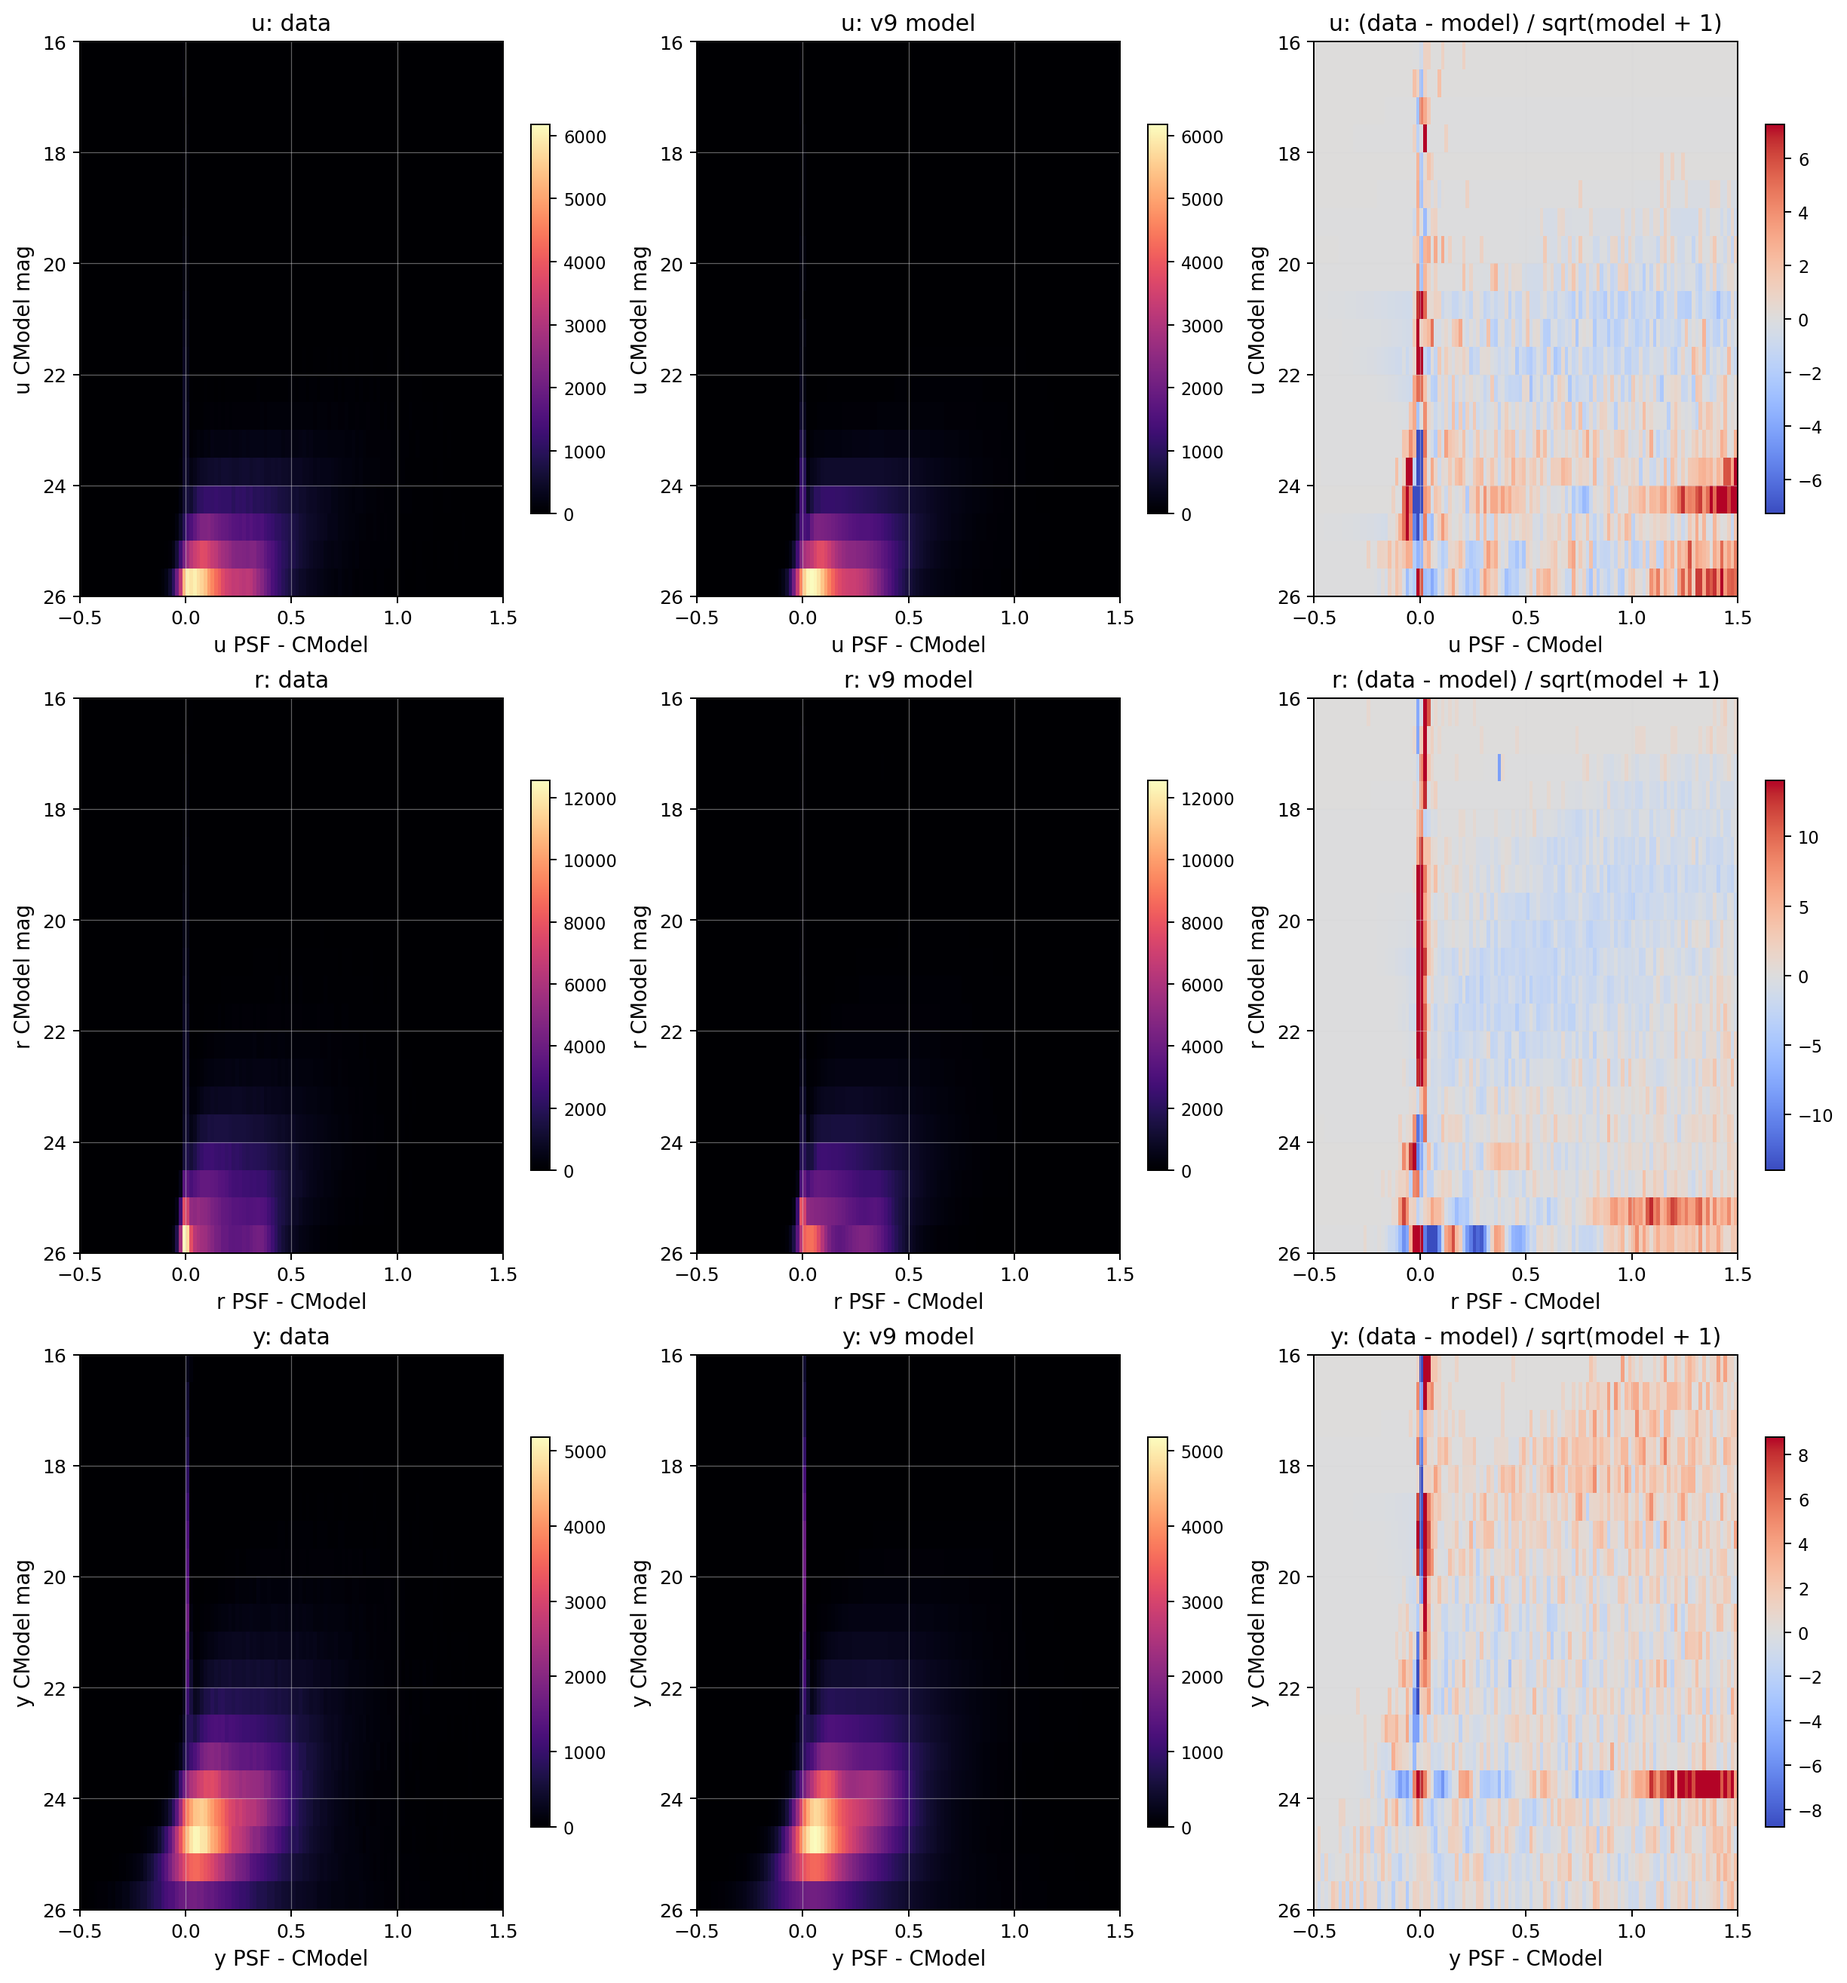
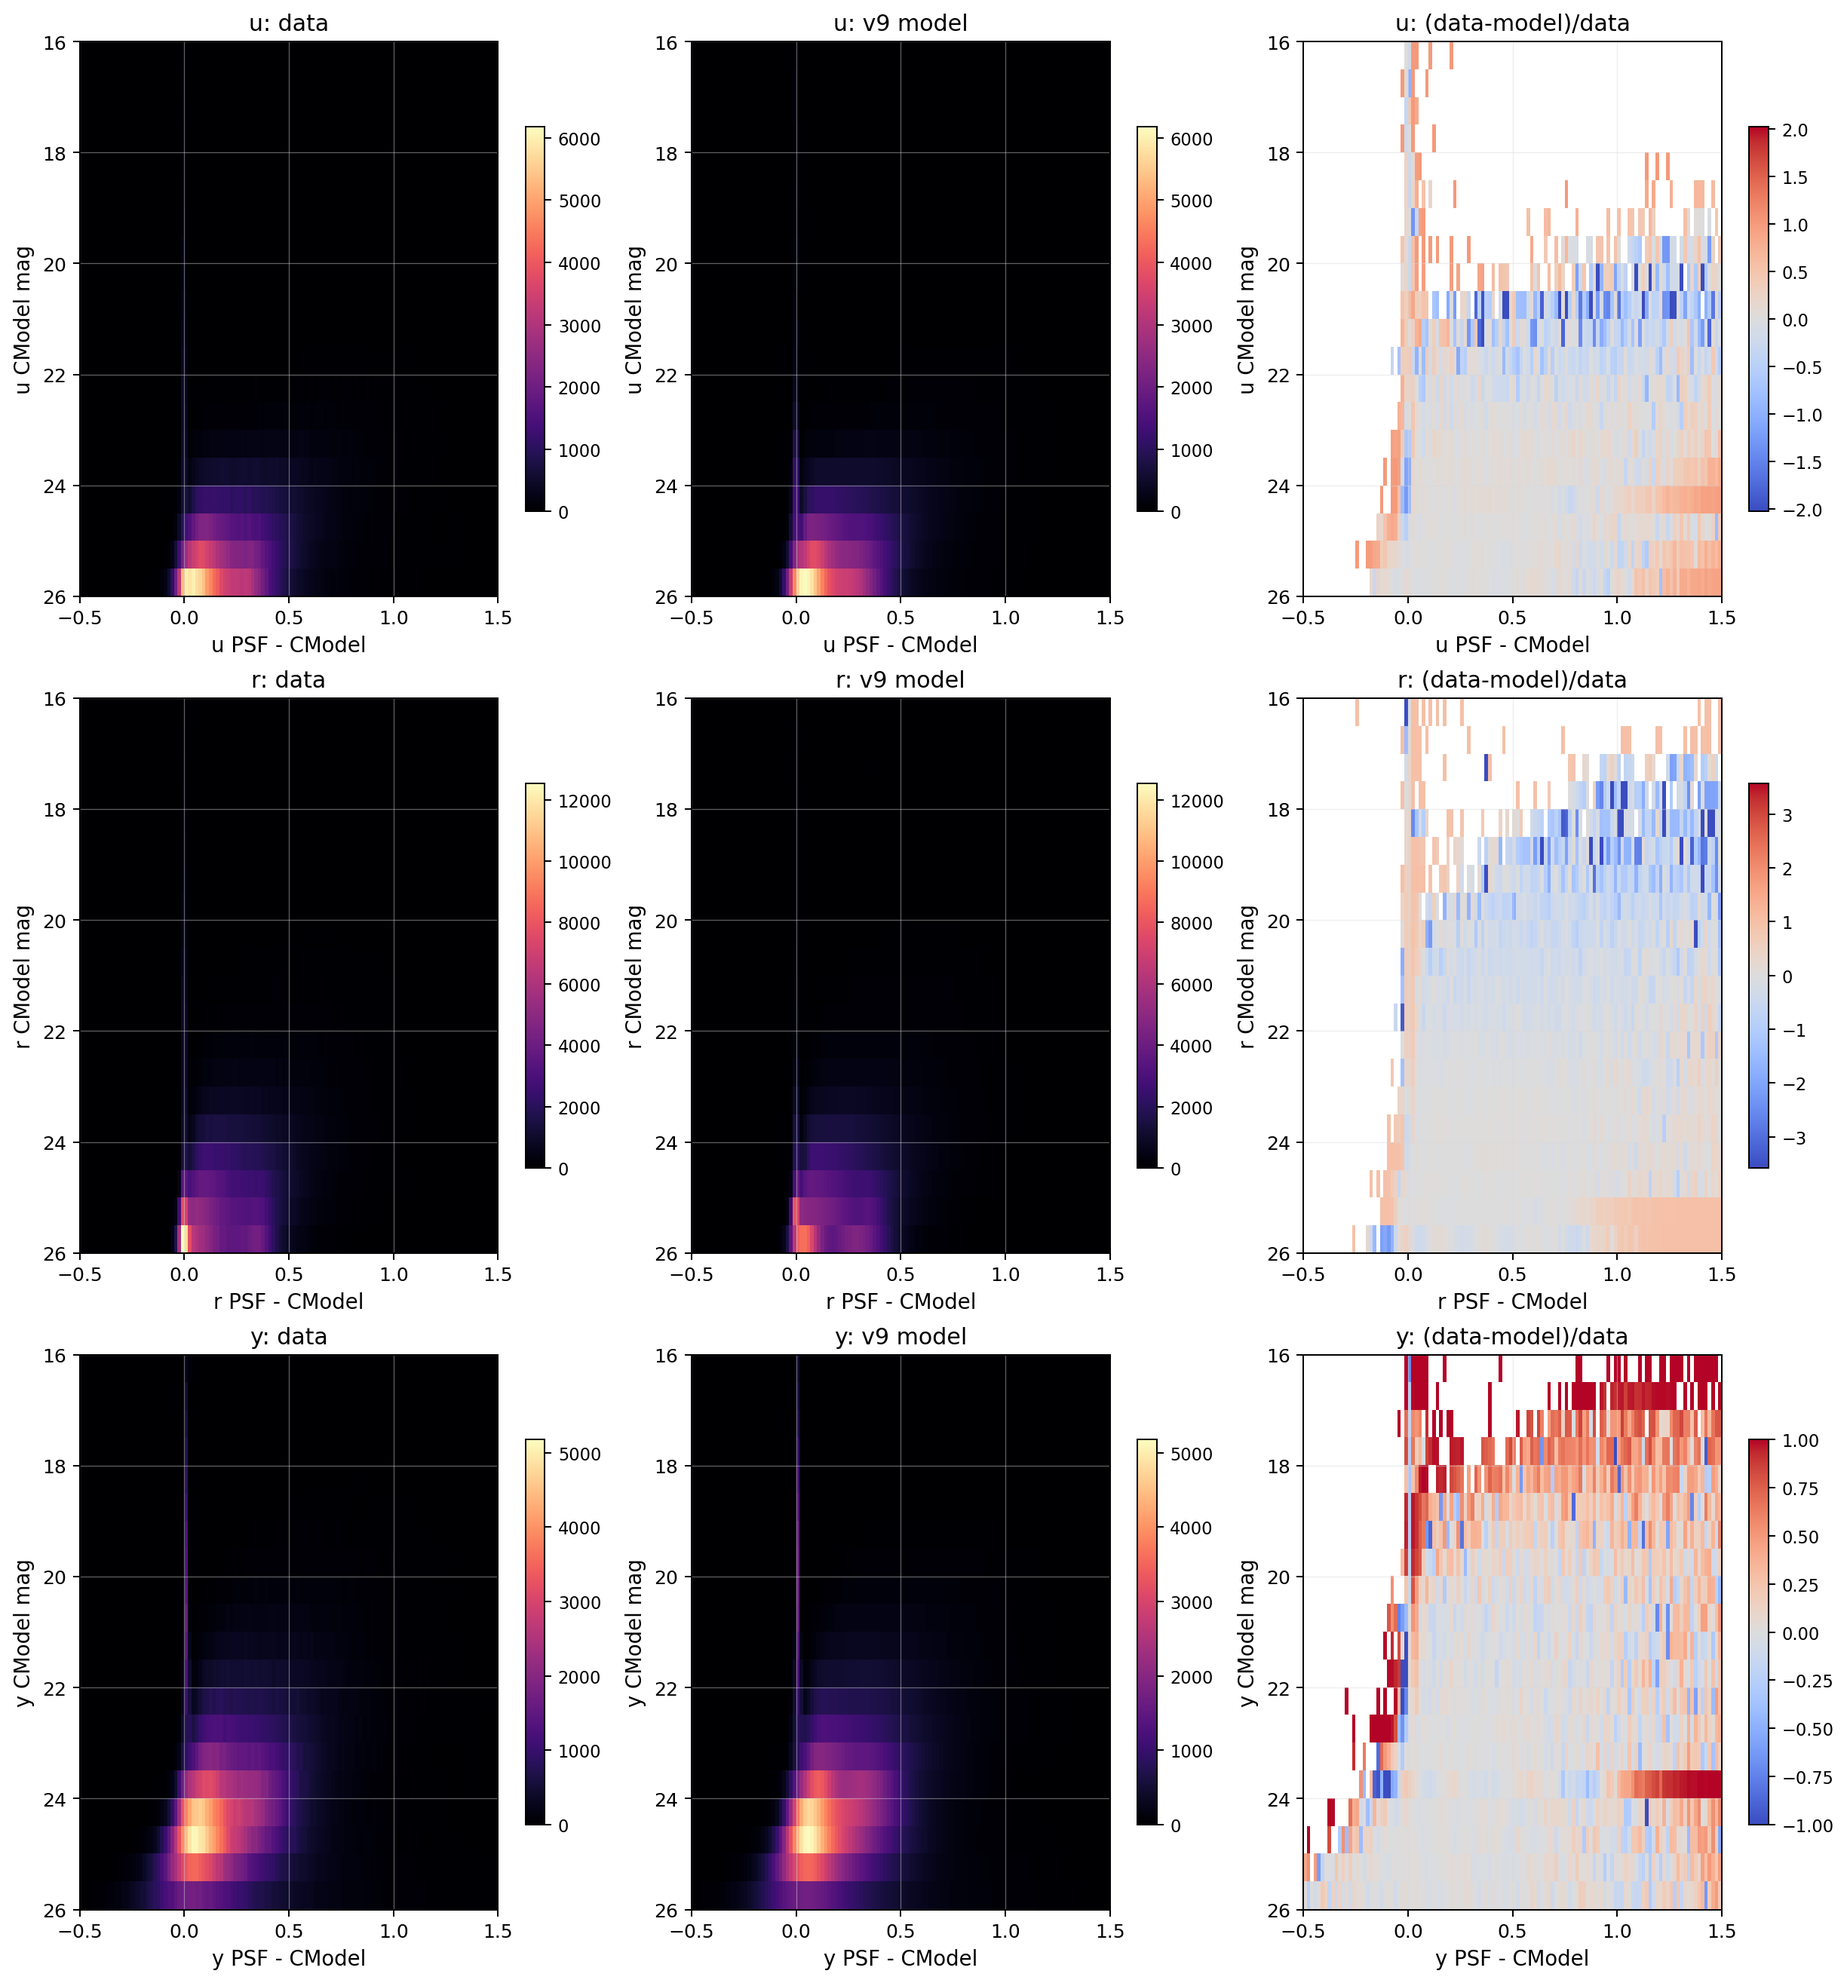
Update Figure 11 to raw counts and fractional residuals

diff --git a/methodology.tex b/methodology.tex
@@ -204,10 +204,15 @@ Figure~\ref{fig:model2d_residuals}, which shows the 2D data, model, and residual
 \begin{figure*}
   \centering
   \includegraphics[width=\textwidth,height=0.82\textheight,keepaspectratio]{figures/section2_bayesian_method/fig2_3_cosmos_ury_model2d_residuals_v9fit.png}
-  \caption{Two-dimensional comparison of the observed (left), modeled (center), and residual
-    (right) source density in the \(\Delta m\) vs.\ \(m_{\mathrm{CModel}}\) plane. The small
-    residuals demonstrate that the constrained mixture model provides an adequate description of
-    the data across the full magnitude range.}
+  \caption{Two-dimensional comparison of observed source counts (left),
+    V9 mixture-model counts (center), and fractional residuals (right) in
+    the \(\Delta m\) vs.\ \(m_{\mathrm{CModel}}\) plane, for the $u$, $r$,
+    and $y$ bands from top to bottom. The first two columns show counts
+    without a square-root transformation and share the same linear color
+    scale within each row. The right column shows
+    $(N_{\rm data}-N_{\rm model})/N_{\rm data}$, with cells containing
+    $N_{\rm data}=0$ masked. Residual color limits are symmetric about zero
+    and set separately for each band, as shown by the individual colorbars.}
   \label{fig:model2d_residuals}
 \end{figure*}
 
